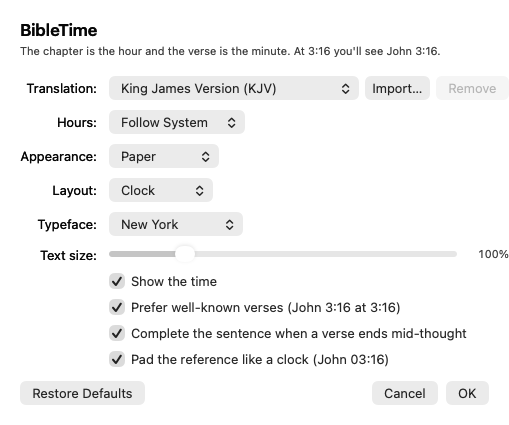
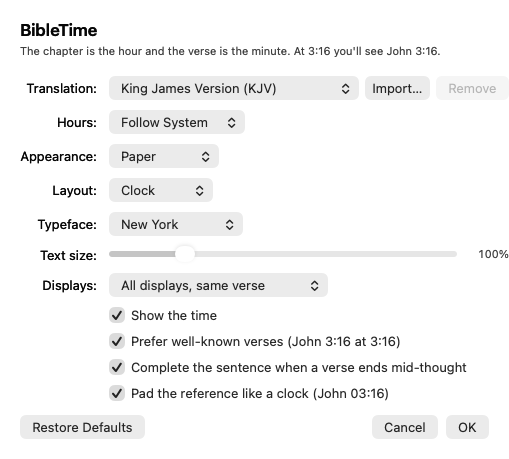
Displays option: main only, same verse everywhere, or a different verse per display
Each view works out which screen it is on (main = NSScreen.screens.first).
In Main-display-only mode secondary screens stay black. In Different-verses
mode the selector takes a per-display variant: famous slots rotate to the
next famous verse, random picks avoid what other displays show when the
minute offers more than one verse, and top-of-hour verses shift too.

diff --git a/Sources/BibleTimeCore/VerseSelector.swift b/Sources/BibleTimeCore/VerseSelector.swift
@@ -128,23 +128,38 @@ public struct VerseSelector: Sendable {
     }
 
     /// Returns nil only when the translation has no usable verse at all (never for the bundled data).
-    public func select(time: ClockTime, preferences: Preferences, use24Hour: Bool? = nil) -> Selection? {
-        var rng = SeededGenerator(time: time, salt: translation.id)
+    ///
+    /// `variant` numbers the display when each screen should show a different verse: variant 0 is the main
+    /// display's choice, variant 1 the next screen's, and so on. Higher variants avoid the verses the lower ones
+    /// picked whenever the minute offers enough candidates, and fall back to the same verse when it does not.
+    public func select(time: ClockTime, preferences: Preferences, use24Hour: Bool? = nil, variant: Int = 0) -> Selection? {
+        let variant = max(0, variant)
+        var taken: Set<VerseRef> = []
+        for v in 0..<variant {
+            if let earlier = selectOne(time: time, preferences: preferences, use24Hour: use24Hour, variant: v, avoiding: taken) {
+                taken.insert(earlier.primary.ref)
+            }
+        }
+        return selectOne(time: time, preferences: preferences, use24Hour: use24Hour, variant: variant, avoiding: taken)
+    }
+
+    private func selectOne(time: ClockTime, preferences: Preferences, use24Hour: Bool?, variant: Int, avoiding taken: Set<VerseRef>) -> Selection? {
+        var rng = SeededGenerator(time: time, salt: variant == 0 ? translation.id : "\(translation.id)#\(variant)")
         let twentyFour = use24Hour ?? preferences.uses24Hour()
 
         if time.minute == 0 {
-            if let verse = hourVerse(time: time, rng: &rng) {
+            if let verse = hourVerse(time: time, offset: variant, rng: &rng) {
                 return Selection(verses: extended(verse, enabled: preferences.extendFragments), kind: .topOfHour)
             }
         }
 
         for chapter in VerseSelector.chapters(for: time, use24Hour: twentyFour) {
-            if let verse = pick(chapter: chapter, minute: time.minute, time: time, preferences: preferences, rng: &rng) {
+            if let verse = pick(chapter: chapter, minute: time.minute, time: time, preferences: preferences, variant: variant, avoiding: taken, rng: &rng) {
                 return Selection(verses: extended(verse, enabled: preferences.extendFragments), kind: .match)
             }
         }
 
-        if let verse = hourVerse(time: time, rng: &rng) {
+        if let verse = hourVerse(time: time, offset: variant, rng: &rng) {
             return Selection(verses: extended(verse, enabled: preferences.extendFragments), kind: .fallback)
         }
         return nil
@@ -152,14 +167,19 @@ public struct VerseSelector: Sendable {
 
     // MARK: - Internals
 
-    private func pick(chapter: Int, minute: Int, time: ClockTime, preferences: Preferences, rng: inout SeededGenerator) -> Verse? {
+    private func pick(chapter: Int, minute: Int, time: ClockTime, preferences: Preferences, variant: Int,
+                      avoiding taken: Set<VerseRef>, rng: inout SeededGenerator) -> Verse? {
         let candidates = translation.verses(chapter: chapter, verse: minute)
         guard !candidates.isEmpty else { return nil }
 
         if preferences.preferFamous, chapter == time.hour12 {
             let famous = (curated.bySlot[time.hour12 * 60 + minute] ?? []).compactMap { translation[$0] }
             if !famous.isEmpty {
-                return famous[VerseSelector.famousIndex(count: famous.count, dayOrdinal: time.dayOrdinal)]
+                let index = (VerseSelector.famousIndex(count: famous.count, dayOrdinal: time.dayOrdinal) + variant) % famous.count
+                if !taken.contains(famous[index].ref) || famous.allSatisfy({ taken.contains($0.ref) }) {
+                    return famous[index]
+                }
+                // The shifted famous verse is already on another display; fall through to the general pool.
             }
         }
 
@@ -170,10 +190,13 @@ public struct VerseSelector: Sendable {
             return chain.count > 1 && !(chain.last?.endsMidSentence ?? true)
         }
         let clean = candidates.filter { $0.flags.isEmpty || extendable($0) }
-        if let verse = clean.randomElement(using: &rng) { return verse }
         // Genealogies and name lists (.exclude) are never shown; the caller folds to another chapter or a time verse.
         let weak = candidates.filter { !$0.flags.contains(.exclude) }
-        return weak.randomElement(using: &rng)
+        // Verses no other display is showing come first, clean before weak; only then repeat one.
+        for tier in [clean.filter { !taken.contains($0.ref) }, weak.filter { !taken.contains($0.ref) }, clean, weak] {
+            if let verse = tier.randomElement(using: &rng) { return verse }
+        }
+        return nil
     }
 
     /// Which curated verse to show on a given day. The first (most famous) verse is shown two days out of three,
@@ -185,12 +208,13 @@ public struct VerseSelector: Sendable {
         return 1 + (day / 3) % (count - 1)
     }
 
-    private func hourVerse(time: ClockTime, rng: inout SeededGenerator) -> Verse? {
+    private func hourVerse(time: ClockTime, offset: Int, rng: inout SeededGenerator) -> Verse? {
         let pool = curated.hourVerses.compactMap { translation[$0] }
         guard !pool.isEmpty else { return nil }
         if time.minute == 0 {
-            // Walk the list hour by hour so a day cycles through most of it, offset by the day for variety.
-            let index = ((time.dayOrdinal * 7 + time.hour) % pool.count + pool.count) % pool.count
+            // Walk the list hour by hour so a day cycles through most of it, offset by the day for variety
+            // (and by the display number, so screens showing different verses differ here too).
+            let index = ((time.dayOrdinal * 7 + time.hour + offset) % pool.count + pool.count) % pool.count
             return pool[index]
         }
         return pool.randomElement(using: &rng)

diff --git a/Tests/CoreTests/main.swift b/Tests/CoreTests/main.swift
@@ -198,6 +198,36 @@ for day in 0..<60 {
     }
 }
 
+section("display variants")
+do {
+    let slot = ClockTime(hour: 3, minute: 16, dayOrdinal: 99)
+    let v0 = selector.select(time: slot, preferences: prefs, use24Hour: false)!
+    let v1 = selector.select(time: slot, preferences: prefs, use24Hour: false, variant: 1)!
+    let v2 = selector.select(time: slot, preferences: prefs, use24Hour: false, variant: 2)!
+    check(v0.primary.ref == VerseRef(book: "JHN", chapter: 3, verse: 16), "variant 0 is the main display's verse")
+    check(v1.primary.ref != v0.primary.ref && v2.primary.ref != v0.primary.ref && v1.primary.ref != v2.primary.ref, "three displays show three different 3:16 verses: \(v0.primary.ref) \(v1.primary.ref) \(v2.primary.ref)")
+    check([v0, v1, v2].allSatisfy { $0.primary.ref.chapter == 3 && $0.primary.ref.verse == 16 && $0.kind == .match }, "all variants still match 3:16")
+    check(selector.select(time: slot, preferences: prefs, use24Hour: false, variant: 1) == v1, "variants are deterministic")
+    check(selector.select(time: slot, preferences: prefs, use24Hour: false, variant: -3)?.primary.ref == v0.primary.ref, "negative variant is the main display")
+    // Random mode: a secondary display avoids the main display's verse too.
+    var collisions = 0, total = 0
+    for h in 1...12 { for m in 1...59 {
+        let t = ClockTime(hour: h, minute: m, dayOrdinal: 7)
+        guard let a = selector.select(time: t, preferences: random, use24Hour: false), a.kind == .match,
+              let b = selector.select(time: t, preferences: random, use24Hour: false, variant: 1) else { continue }
+        total += 1
+        let pool = kjv.verses(chapter: h, verse: m).filter { !$0.flags.contains(.exclude) }
+        if a.primary.ref == b.primary.ref { collisions += 1; check(pool.count == 1, "\(h):\(m) displays coincide only when a single verse exists (pool \(pool.count))") }
+    } }
+    check(total > 600 && collisions < total / 10, "secondary display differs on most minutes (\(collisions) coincidences of \(total))")
+    // Top of the hour: the time verse shifts too.
+    let top0 = selector.select(time: ClockTime(hour: 9, minute: 0, dayOrdinal: 100), preferences: prefs, use24Hour: false)!
+    let top1 = selector.select(time: ClockTime(hour: 9, minute: 0, dayOrdinal: 100), preferences: prefs, use24Hour: false, variant: 1)!
+    check(top0.kind == .topOfHour && top1.kind == .topOfHour && top0.primary.ref != top1.primary.ref, "top-of-hour verses differ per display")
+    let c1 = try clock.content(for: date(2026, 11, 3, 15, 16), preferences: prefs, calendar: utc, locale: us, variant: 1)
+    check(c1.reference != "John 03:16" && c1.reference.hasSuffix("03:16"), "facade passes the variant through: \(c1.reference)")
+} catch { check(false, "display variants threw \(error)") }
+
 section("coverage")
 for t in translations {
     let sel = VerseSelector(translation: t, curated: clock.curated)
@@ -256,6 +286,9 @@ check(Preferences(dictionary: ["textScale": 9.0]).textScale == Preferences.textS
 check(Preferences(dictionary: ["textScale": 0.1]).textScale == Preferences.textScaleRange.lowerBound, "textScale clamped low")
 check(Preferences(dictionary: ["layout": "bogus", "theme": "night"]).layout == .clock, "bad enum keeps default")
 check(Preferences(dictionary: ["layout": "bogus", "theme": "night"]).theme == .night, "good enum applies")
+check(Preferences().displayMode == .sameVerse, "default display mode shows the same verse everywhere")
+check(Preferences(dictionary: ["displayMode": "differentVerses"]).displayMode == .differentVerses, "display mode decodes")
+check(Preferences(dictionary: ["displayMode": "nope"]).displayMode == .sameVerse, "bad display mode keeps default")
 check(!Preferences.localeUses24Hour(us), "en_US is 12-hour")
 check(Preferences.localeUses24Hour(de), "de_DE is 24-hour")
 var p = Preferences(); p.hourStyle = .twentyFourHour

diff --git a/Sources/BibleTime/BibleTimeView.swift b/Sources/BibleTime/BibleTimeView.swift
@@ -72,6 +72,20 @@ final class BibleTimeView: ScreenSaverView {
     /// System Settings on macOS 26 creates a zero-sized preview instance; treat small views as previews whatever `isPreview` says.
     private var effectivelyPreview: Bool { isPreview || bounds.height < 300 || bounds.width < 400 }
 
+    /// Which display this view is on: 0 for the main display (the one with the menu bar), counting up in the
+    /// order macOS lists screens. Unknown (no window yet, or the preview) counts as the main display.
+    private var displayIndex: Int {
+        if let pinned = DevOverrides.pinnedDisplayIndex { return pinned }
+        guard !effectivelyPreview, let screen = window?.screen else { return 0 }
+        let screens = NSScreen.screens
+        return screens.firstIndex(where: { $0 == screen }) ?? 0
+    }
+
+    /// True when this view should draw only the background (Main-display-only mode on a secondary screen).
+    private var showsOnlyBackground: Bool {
+        preferences.displayMode == .mainOnly && displayIndex > 0 && !effectivelyPreview
+    }
+
     override var hasConfigureSheet: Bool { true }
 
     override var configureSheet: NSWindow? {
@@ -142,6 +156,11 @@ final class BibleTimeView: ScreenSaverView {
         }
     }
 
+    override func viewDidMoveToWindow() {
+        super.viewDidMoveToWindow()
+        if window != nil, bounds.width > 0, bounds.height > 0 { refresh(now: DevOverrides.now(), animated: false) }
+    }
+
     override func viewDidChangeEffectiveAppearance() {
         super.viewDidChangeEffectiveAppearance()
         refresh(now: DevOverrides.now(), animated: false)
@@ -159,13 +178,16 @@ final class BibleTimeView: ScreenSaverView {
         let time = ClockTime(date: now)
         palette = Palette.resolve(preferences.theme, appearance: effectiveAppearance, hour: time.hour)
 
+        let variant = preferences.displayMode == .differentVerses ? displayIndex : 0
         let content: DisplayContent
-        if let clock {
+        if showsOnlyBackground {
+            content = DisplayContent(minuteKey: time.minuteKey, text: "", reference: "", clock: "", kind: .fallback, translation: "")
+        } else if let clock {
             do {
                 if let ref = DevOverrides.pinnedReference, let pinned = try clock.content(for: ref, date: now, preferences: preferences) {
                     content = pinned
                 } else {
-                    content = try clock.content(for: now, preferences: preferences)
+                    content = try clock.content(for: now, preferences: preferences, variant: variant)
                 }
             } catch {
                 content = DisplayContent(minuteKey: time.minuteKey, text: "\(error)", reference: "", clock: "", kind: .fallback, translation: "")
@@ -193,9 +215,10 @@ final class BibleTimeView: ScreenSaverView {
     // MARK: Drawing
 
     override func draw(_ rect: NSRect) {
-        palette.background.setFill()
+        // A secondary display in Main-display-only mode stays dark, whatever the theme.
+        (showsOnlyBackground ? NSColor.black : palette.background).setFill()
         bounds.fill()
-        guard let current else { return }
+        guard let current, !current.content.text.isEmpty else { return }
         let scale = window?.backingScaleFactor ?? 2
 
         guard let start = fadeStart, let previous else {

diff --git a/Sources/BibleTimeCore/Preferences.swift b/Sources/BibleTimeCore/Preferences.swift
@@ -61,6 +61,24 @@ public enum TypefaceChoice: String, Codable, CaseIterable, Sendable {
     }
 }
 
+/// What to show when more than one display is attached.
+public enum DisplayMode: String, Codable, CaseIterable, Sendable {
+    /// Verses on the main display; other displays show only the background.
+    case mainOnly
+    /// Every display shows the same verse (the default).
+    case sameVerse
+    /// Every display shows a different verse for the minute, when the Bible has more than one.
+    case differentVerses
+
+    public var title: String {
+        switch self {
+        case .mainOnly: return "Main display only"
+        case .sameVerse: return "All displays, same verse"
+        case .differentVerses: return "All displays, different verses"
+        }
+    }
+}
+
 /// All user-adjustable settings. Stored by the screen saver in `ScreenSaverDefaults`; tests and the preview host
 /// can construct them directly.
 public struct Preferences: Codable, Equatable, Sendable {
@@ -78,6 +96,7 @@ public struct Preferences: Codable, Equatable, Sendable {
     public var extendFragments: Bool = true
     /// Zero-pad chapter and verse in the reference ("John 03:16") so it reads like the time.
     public var padReference: Bool = true
+    public var displayMode: DisplayMode = .sameVerse
 
     public static let textScaleRange: ClosedRange<Double> = 0.75...2.0
 
@@ -93,7 +112,7 @@ public struct Preferences: Codable, Equatable, Sendable {
     // MARK: Key-value representation (used for ScreenSaverDefaults and the dev override environment variable)
 
     public enum Key: String, CaseIterable {
-        case translation, hourStyle, theme, layout, typeface, textScale, showClock, preferFamous, extendFragments, padReference
+        case translation, hourStyle, theme, layout, typeface, textScale, showClock, preferFamous, extendFragments, padReference, displayMode
     }
 
     public var dictionary: [String: Any] {
@@ -108,6 +127,7 @@ public struct Preferences: Codable, Equatable, Sendable {
             Key.preferFamous.rawValue: preferFamous,
             Key.extendFragments.rawValue: extendFragments,
             Key.padReference.rawValue: padReference,
+            Key.displayMode.rawValue: displayMode.rawValue,
         ]
     }
 
@@ -124,6 +144,7 @@ public struct Preferences: Codable, Equatable, Sendable {
         if let v = d[Key.preferFamous.rawValue] as? Bool { preferFamous = v }
         if let v = d[Key.extendFragments.rawValue] as? Bool { extendFragments = v }
         if let v = d[Key.padReference.rawValue] as? Bool { padReference = v }
+        if let v = d[Key.displayMode.rawValue] as? String, let e = DisplayMode(rawValue: v) { displayMode = e }
         self = normalized
     }
 

diff --git a/Sources/BibleTime/ConfigureSheet.swift b/Sources/BibleTime/ConfigureSheet.swift
@@ -25,6 +25,7 @@ final class ConfigureSheet: NSObject {
     private let themePopup = NSPopUpButton()
     private let layoutPopup = NSPopUpButton()
     private let typefacePopup = NSPopUpButton()
+    private let displayPopup = NSPopUpButton()
     private let sizeSlider = NSSlider()
     private let sizeLabel = NSTextField(labelWithString: "")
     private let clockCheck = NSButton(checkboxWithTitle: "Show the time", target: nil, action: nil)
@@ -62,6 +63,7 @@ final class ConfigureSheet: NSObject {
         popup(themePopup, titles: Theme.allCases.map(\.title))
         popup(layoutPopup, titles: LayoutStyle.allCases.map(\.title))
         popup(typefacePopup, titles: TypefaceChoice.allCases.map(\.title))
+        popup(displayPopup, titles: DisplayMode.allCases.map(\.title))
 
         importButton.target = self
         importButton.action = #selector(importTranslation)
@@ -100,6 +102,7 @@ final class ConfigureSheet: NSObject {
             [label("Layout:"), layoutPopup],
             [label("Typeface:"), typefacePopup],
             [label("Text size:"), sizeRow],
+            [label("Displays:"), displayPopup],
             [NSGridCell.emptyContentView, clockCheck],
             [NSGridCell.emptyContentView, famousCheck],
             [NSGridCell.emptyContentView, extendCheck],
@@ -196,6 +199,7 @@ final class ConfigureSheet: NSObject {
         themePopup.selectItem(at: Theme.allCases.firstIndex(of: p.theme) ?? 0)
         layoutPopup.selectItem(at: LayoutStyle.allCases.firstIndex(of: p.layout) ?? 0)
         typefacePopup.selectItem(at: TypefaceChoice.allCases.firstIndex(of: p.typeface) ?? 0)
+        displayPopup.selectItem(at: DisplayMode.allCases.firstIndex(of: p.displayMode) ?? 1)
         sizeSlider.doubleValue = p.textScale
         clockCheck.state = p.showClock ? .on : .off
         famousCheck.state = p.preferFamous ? .on : .off
@@ -211,6 +215,7 @@ final class ConfigureSheet: NSObject {
         p.theme = Theme.allCases[max(0, themePopup.indexOfSelectedItem)]
         p.layout = LayoutStyle.allCases[max(0, layoutPopup.indexOfSelectedItem)]
         p.typeface = TypefaceChoice.allCases[max(0, typefacePopup.indexOfSelectedItem)]
+        p.displayMode = DisplayMode.allCases[max(0, displayPopup.indexOfSelectedItem)]
         p.textScale = sizeSlider.doubleValue
         p.showClock = clockCheck.state == .on
         p.preferFamous = famousCheck.state == .on

diff --git a/Sources/BibleTimeCore/VerseClock.swift b/Sources/BibleTimeCore/VerseClock.swift
@@ -79,7 +79,7 @@ public final class VerseClock: @unchecked Sendable {
     }
 
     /// Content for `date`. Throws only when the translation file cannot be read.
-    public func content(for date: Date, preferences: Preferences, calendar: Calendar = .current, locale: Locale = .current) throws -> DisplayContent {
+    public func content(for date: Date, preferences: Preferences, calendar: Calendar = .current, locale: Locale = .current, variant: Int = 0) throws -> DisplayContent {
         let translation = try translation(for: preferences)
         let time = ClockTime(date: date, calendar: calendar)
         let use24 = preferences.uses24Hour(locale: locale)
@@ -87,7 +87,7 @@ public final class VerseClock: @unchecked Sendable {
         let formatter = ReferenceFormatter(canon: canon, pad: preferences.padReference)
         let clock = VerseClock.clockString(for: date, use24Hour: use24, calendar: calendar, locale: locale)
 
-        guard let selection = selector.select(time: time, preferences: preferences, use24Hour: use24) else {
+        guard let selection = selector.select(time: time, preferences: preferences, use24Hour: use24, variant: variant) else {
             return DisplayContent(minuteKey: time.minuteKey, text: "", reference: "", clock: clock, kind: .fallback, translation: translation.abbreviation)
         }
         return DisplayContent(

diff --git a/Sources/BibleTime/DevOverrides.swift b/Sources/BibleTime/DevOverrides.swift
@@ -19,6 +19,12 @@ enum DevOverrides {
 
     static func now() -> Date { pinnedDate ?? Date() }
 
+    /// - `BIBLETIME_DISPLAY=1` pretends the view sits on the second display (0 is the main display).
+    static let pinnedDisplayIndex: Int? = {
+        guard let value = ProcessInfo.processInfo.environment["BIBLETIME_DISPLAY"], let index = Int(value), index >= 0 else { return nil }
+        return index
+    }()
+
     /// - `BIBLETIME_REF="EST 8:9"` (USFM book code) forces a verse regardless of the time, for screenshots.
     static let pinnedReference: VerseRef? = {
         guard let value = ProcessInfo.processInfo.environment["BIBLETIME_REF"] else { return nil }

diff --git a/README.md b/README.md
@@ -25,6 +25,8 @@ Bible Clock.
 - **12- or 24-hour.** Follows your system clock setting; in 24-hour mode 15:16 prefers a chapter 15 verse.
 - **Three layouts** (Clock, Centered, Book), **two themes** (Paper, Night, or automatic by appearance and time
   of day), five typefaces, an adjustable text size, an optional small clock.
+- **Multiple displays.** Show verses on every display (the same one, or a different one per screen) or on the
+  main display only, with the others kept dark.
 - **Easy on the screen.** One crossfade per minute, a few points of drift every five minutes, and nothing else
   moving. Text is laid out in points and scales to any display, Retina or not, portrait or ultrawide.
 - Builds with the Swift compiler from Xcode Command Line Tools alone. No Xcode needed.
@@ -72,6 +74,7 @@ See [CONTRIBUTING.md](CONTRIBUTING.md) for the development loop.
 | Layout | Clock, Centered, Book | Clock |
 | Typeface | New York, Charter, Palatino, Georgia, San Francisco | New York |
 | Text size | 75%–200% | 100% (4% of the screen height) |
+| Displays | Main display only; All displays, same verse; All displays, different verses | All displays, same verse |
 | Show the time | on/off | on |
 | Prefer well-known verses | on/off | on |
 | Complete the sentence | on/off | on |

diff --git a/CONTRIBUTING.md b/CONTRIBUTING.md
@@ -39,6 +39,7 @@ environment variables make renders reproducible:
 | `BIBLETIME_TIME` | `15:16` | Pin the clock to today at that time. |
 | `BIBLETIME_PREFS` | `{"layout":"book","theme":"night"}` | Override stored settings (keys as in `Preferences.swift`). |
 | `BIBLETIME_REF` | `EST 8:9` | Force a verse by USFM book code, whatever the time. |
+| `BIBLETIME_DISPLAY` | `1` | Pretend the view is on the second display (0 is the main display). |
 
 `Tools/build_from_biblia.py` builds a translation file from the Biblia API for personal import; it reuses the flag
 heuristics from `build_verses.py` and has no tests that hit the network (its parser is exercised by hand with `--only`).
